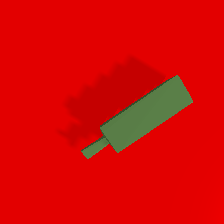
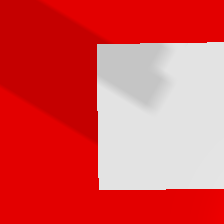
Grasp planning added

diff --git a/src/robot_with_drop_area.py b/src/robot_with_drop_area.py
@@ -30,24 +30,27 @@ class GridEnvironment():
         p.resetDebugVisualizerCamera(2 , 0, -41, [0, -1.4, 1])
         
         #setting objects to be picked and where to be dropped
-        self.object_indices = [2, 7, 8, 6, 24]  
+        self.object_indices = [7, 2, 8, 6, 24]  
         self.count=0
         self.placing = [[0, 0.8], [0.8, 0.4], [0.8, 0.8]]
 
+        #calibration metric from depth estimation while grasp planning
+        self.calib = 3.7 
+
     #function to get RGB-D image and predict the grasping points info
     def get_grasp_prediction(self,x,y,z,a):
-        self.Robot.rgbd_images(x,y,z)
+        top_pos = self.Robot.rgbd_images(x,y,z)
         self.rgb_path = "./src/CapturedImg/color"+".png"
         self.depth_path = "./src/CapturedImg/depth"+".png"
         self.GraspModel.load_images(self.rgb_path, self.depth_path)
         gs = self.GraspModel.predict_grasp()
-        return gs
+        return gs, top_pos
 
     #function to extract points from the info received from the function above
     def get_real_world_coord(self):
         end_effector_initpos = self.Robot.end_effector()[0]
         a=0
-        gs = self.get_grasp_prediction(end_effector_initpos[0],end_effector_initpos[1],end_effector_initpos[2],a)
+        gs, top_pos = self.get_grasp_prediction(end_effector_initpos[0],end_effector_initpos[1],end_effector_initpos[2],a)
         x = end_effector_initpos[0]
         y = end_effector_initpos[1]
         z = end_effector_initpos[2]
@@ -56,20 +59,23 @@ class GridEnvironment():
         x = x + a*(1-gs[0].center[1]/112)
         score = gs[0].quality
         angle = gs[0].angle
-        return x,y,angle,score
+        return x,y,angle,score,top_pos
 
     #function to pick an object autonomously
-    def pick(self, xpos, ypos, object, threshold=10):# change threshold later to 0.9
+    def pick(self, xpos, ypos, object, threshold=0.1):# change threshold later to 0.9
         self.Robot.overhead_camera(0)
         self.Robot.move_frame_and_head(ypos+0.06, xpos-0.03)
         z_init = self.Robot.end_effector()[0][2]
-        x,y,angle,score = self.get_real_world_coord()
+        x,y,angle,score,top_pos = self.get_real_world_coord()
         if score<threshold:
-            if z_init>1.185:
-                zpos = z_init - 1.181
-                self.Robot.extend_wrist(zpos)
             self.Robot.move_suction_cup(ypos, xpos)
             self.Robot.close_gripper(0.09, 1)
+            if z_init>1.185:
+                zpos = z_init - 1.181
+                z_error = max(top_pos - 0.9534781, 0)
+                print("error")
+                print(z_error)
+                self.Robot.extend_wrist(zpos+self.calib*z_error)
             p.resetDebugVisualizerCamera(0.4, angle, -20, [xpos, ypos, p.getBasePositionAndOrientation(object)[0][2]])
             self.Robot.suction_down()
             cons = self.Robot.suction_force(object)
@@ -86,7 +92,8 @@ class GridEnvironment():
             z_init = self.Robot.end_effector()[0][2]
             zpos = z_init - 1.052
             p.resetDebugVisualizerCamera(0.4, angle, -20, [xpos, ypos, p.getBasePositionAndOrientation(object)[0][2]])
-            self.Robot.extend_wrist(zpos)
+            z_error = max(0.9534812 - top_pos, 0)
+            self.Robot.extend_wrist(zpos - z_error)
             self.Robot.close_gripper(0.10)
             self.Robot.contract_wrist(0.13)
             p.resetDebugVisualizerCamera(2 , 0, -41, [0, -1.4, 1])

diff --git a/src/robot.py b/src/robot.py
@@ -568,11 +568,11 @@ class robot:
 		return p.getLinkState(self.bot,self.end_effect)
 	
 	#function to extend the suction cup
-	def suction_down(self):
+	def suction_down(self, down=0.09):
 		i = 0.005
 		currentPos_init = p.getJointState(self.bot, self.suction)
 		currentPos = p.getJointState(self.bot, self.suction)
-		while(currentPos[0]>-0.09):
+		while(currentPos[0]>-down):
 			currentPos = p.getJointState(self.bot, self.suction)
 			p.setJointMotorControl2(self.bot, self.suction,p.POSITION_CONTROL, targetPosition = currentPos[0]-i)
 			p.stepSimulation()
@@ -768,6 +768,7 @@ class robot:
 			np_img_arr = cv2.cvtColor(np_img_arr,cv2.COLOR_BGR2RGB)
 			depth = img_arr[3]
 			depth = np.reshape(depth, (height, width))
+			top_surf = np.amin(depth)
 			depth_image = np.zeros(np_img_arr.shape, dtype=np.float64)
 			depth_image[:,:,0] = depth
 			lower_bound=np.amin(depth_image[:,:,0])
@@ -777,3 +778,4 @@ class robot:
 			depth_image_new[:,:] = depth_image_new[:,:]*(255/(upper_bound-lower_bound))-((255*lower_bound)/(upper_bound-lower_bound))
 			cv2.imwrite(r"./src/CapturedImg/depth"+".png",depth_image_new)
 			cv2.imwrite(r"./src/CapturedImg/color"+".png",np_img_arr)
+			return top_surf
